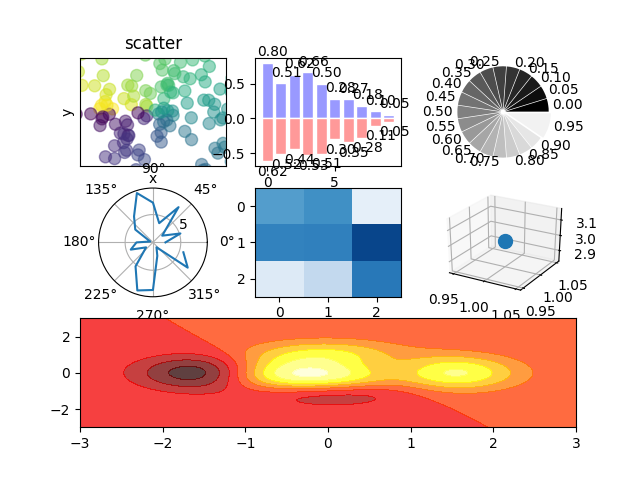
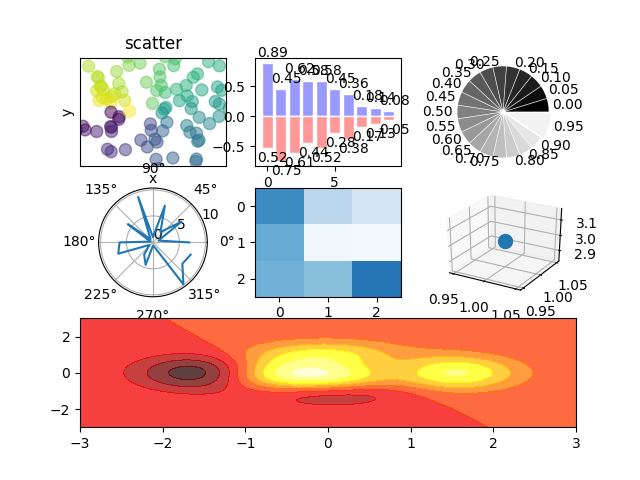
matplotlib基础学习

Changed region(s): [[0.125, 0.0938, 0.6562, 0.625], [0.1562, 0.375, 0.3438, 0.625]]

diff --git a/DataAnalysisCode/matplotlib/matplotlib3.py b/DataAnalysisCode/matplotlib/matplotlib3.py
@@ -1,0 +1,66 @@
+# 2019年02月15日17:16:31
+
+# 最常用的一个模块
+import matplotlib.pyplot as plt
+import numpy as np
+
+# x为-1到1 50个点
+x = np.linspace(-1, 1, 50)
+# 要展示的一次函数
+y1 = 2 * x + 1
+y2 = x ** 2
+# plot 展示
+# 有几个figure就可以创建几个窗口
+plt.figure()
+# plt.plot(x, y1)
+# # linewidth线条宽度 linestyle样式
+# plt.plot(x, y2, linewidth=1.0, color='red', linestyle='--')
+
+# 控制x,y的展示范围
+plt.xlim(-5, 5)
+plt.ylim(-5, 5)
+
+# plt.xlabel('I am x')
+# plt.ylabel('I am y')
+
+# ticks重新更换
+# new_ticks = np.linspace(-1, 2, 5)
+# plt.xticks(new_ticks)
+# 对y的ticks进行单独设置,由数字设置成文字显示
+# r'$really\ bad$' r表示正则表达的一种形式 $$只是一种数字形式展示，用于展示样式统一
+# 一个转制符很厉害，可以由英文转成数学形式 \alpha
+# plt.yticks([-2, -1.8, -1, 1.22, 5],
+#            [r'$really\ bad$', r'$bad\ \alpha$', r'$normal$', r'$good$', r'$really\ good$'])
+
+# label及需要设置的名字；legend则是最简单的线条标注
+l1 = plt.plot(x, y1, label='up')
+# linewidth线条宽度 linestyle样式
+l2 = plt.plot(x, y2, linewidth=1.0, color='red', linestyle='--', label='down')
+# legend()图例标示
+plt.legend()
+# 设置右侧和上册的轴消失，左侧和下侧轴移动
+ax = plt.gca()
+ax.spines['right'].set_color('none')
+ax.spines['top'].set_color('none')
+ax.xaxis.set_ticks_position('bottom')
+ax.yaxis.set_ticks_position('left')
+ax.spines['bottom'].set_position(('data', 0))
+ax.spines['left'].set_position(('data', 0))
+
+# 对轴上的数值显示设定（tick的能见度）
+for label in ax.get_xticklabels() + ax.get_yticklabels():
+    label.set_fontsize(12)
+    label.set_bbox(dict(facecolor='white', edgecolor='None', alpha=0.7))
+
+# annotation 注解，即对某一个点的标注
+x0 = 1
+y0 = 2 * x0 + 1
+# scatter代表一个点 s表示点的大小
+plt.scatter(x0, y0, s=50, color='b')
+# 标记的竖线
+plt.plot([x0, x0], [y0, 0], 'k--', lw=2.5)
+
+plt.annotate(r'$2x+1=%s$' % y0, xy=(x0, y0), xycoords='data', xytext=(+30, -30), textcoords='offset points',
+             fontsize=16, arrowprops=dict(arrowstyle='->', connectionstyle='arc3,rad=.2'))
+
+plt.show()

diff --git a/DataAnalysisCode/matplotlib/aiqingquxianTest.py b/DataAnalysisCode/matplotlib/aiqingquxianTest.py
@@ -3,6 +3,7 @@ from matplotlib.font_manager import FontProperties
 import matplotlib.pyplot as plt
 # 2019年02月14日17:13:59 情人节，送与老公的大红心
 # 中文配置 从系统找去想要显示的中文字体路径所在
+# r表示正则表达的一个形式
 font = FontProperties(fname=r"/System/Library/Fonts/STHeiti Medium.ttc", size=18)
 plt.title('情人节快乐', fontproperties=font)
 # linspace构建等差数列

diff --git a/DataAnalysisCode/matplotlib/matplotlibTest2.py b/DataAnalysisCode/matplotlib/matplotlibTest2.py
@@ -11,11 +11,11 @@ def main():
     fig = plt.figure()
     # 表示散点图画在此区域内
     ax = fig.add_subplot(3, 3, 1)
-    n = 128
+    n = 102
     # 随机数
     X = np.random.normal(0, 1, n)
     Y = np.random.normal(0, 1, n)
-    # 上色，Y除以X
+    # 上色，Y除以X(颜色展示）
     T = np.arctan2(Y, X)
     # 指定显示范围
     # plt.axes([0.025, 0.025, 0.95, 0.95])
